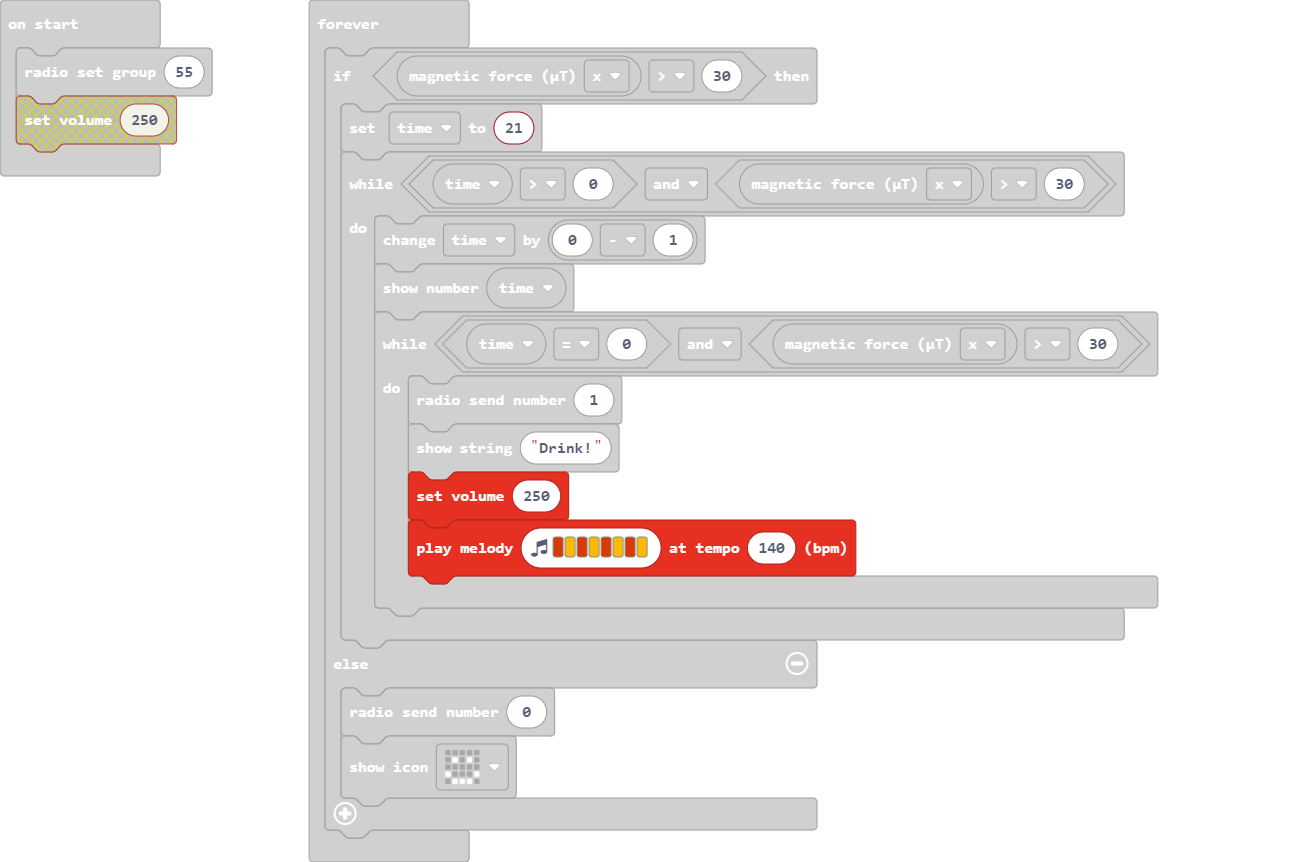
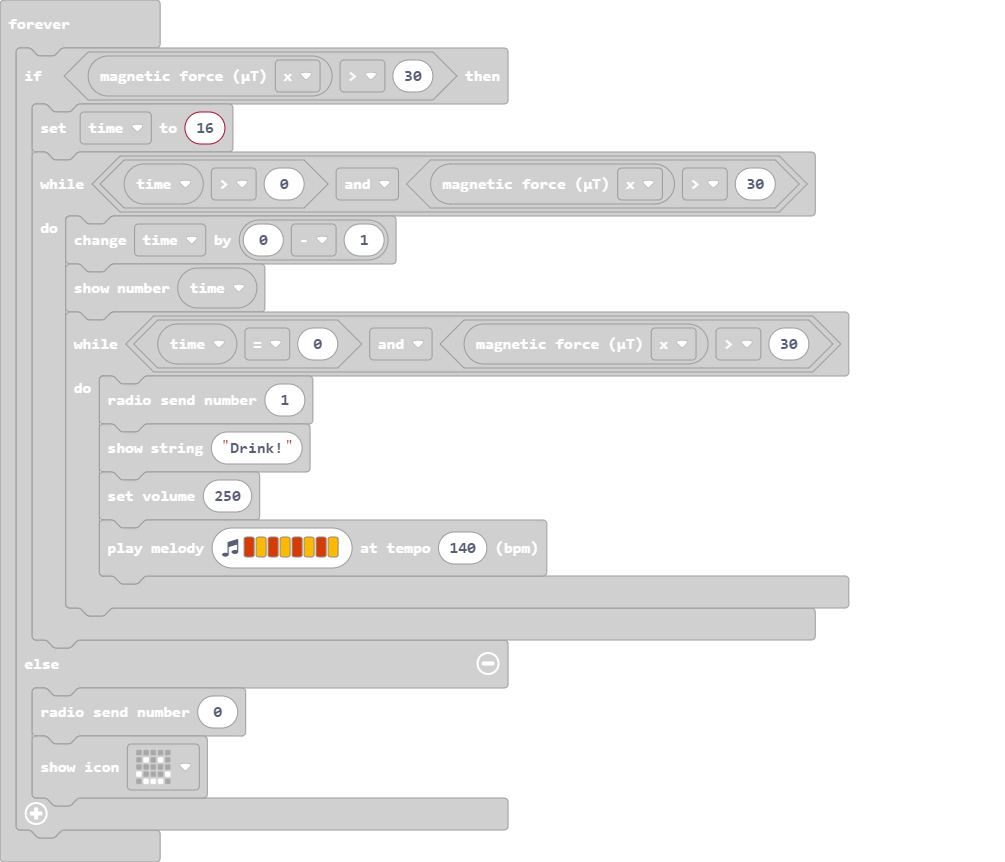
Update main.blocks, main.ts

diff --git a/main.ts b/main.ts
@@ -2,7 +2,7 @@ let time = 0
 radio.setGroup(55)
 basic.forever(function () {
     if (input.magneticForce(Dimension.X) > 30) {
-        time = 21
+        time = 16
         while (time > 0 && input.magneticForce(Dimension.X) > 30) {
             time += 0 - 1
             basic.showNumber(time)
